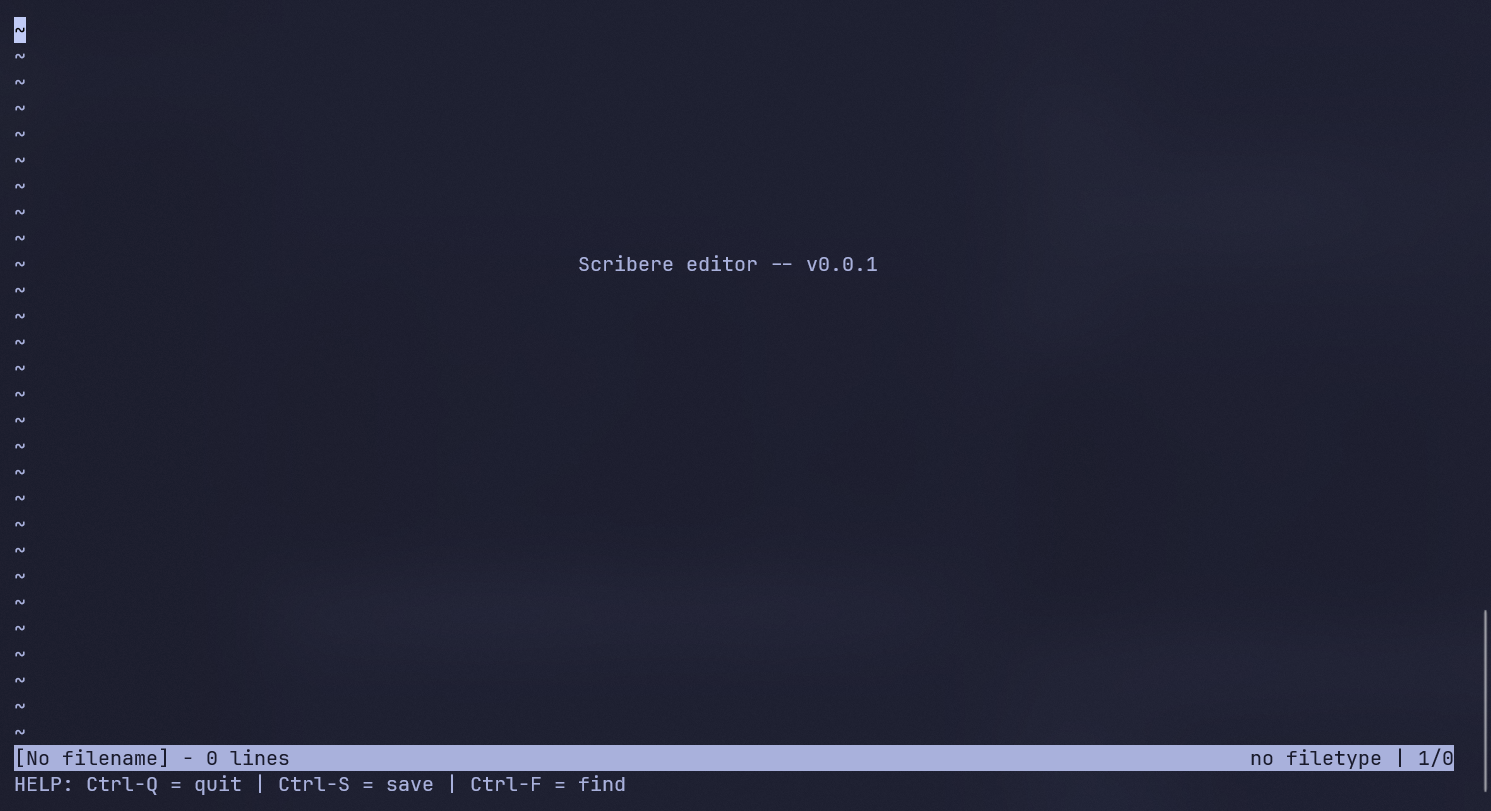
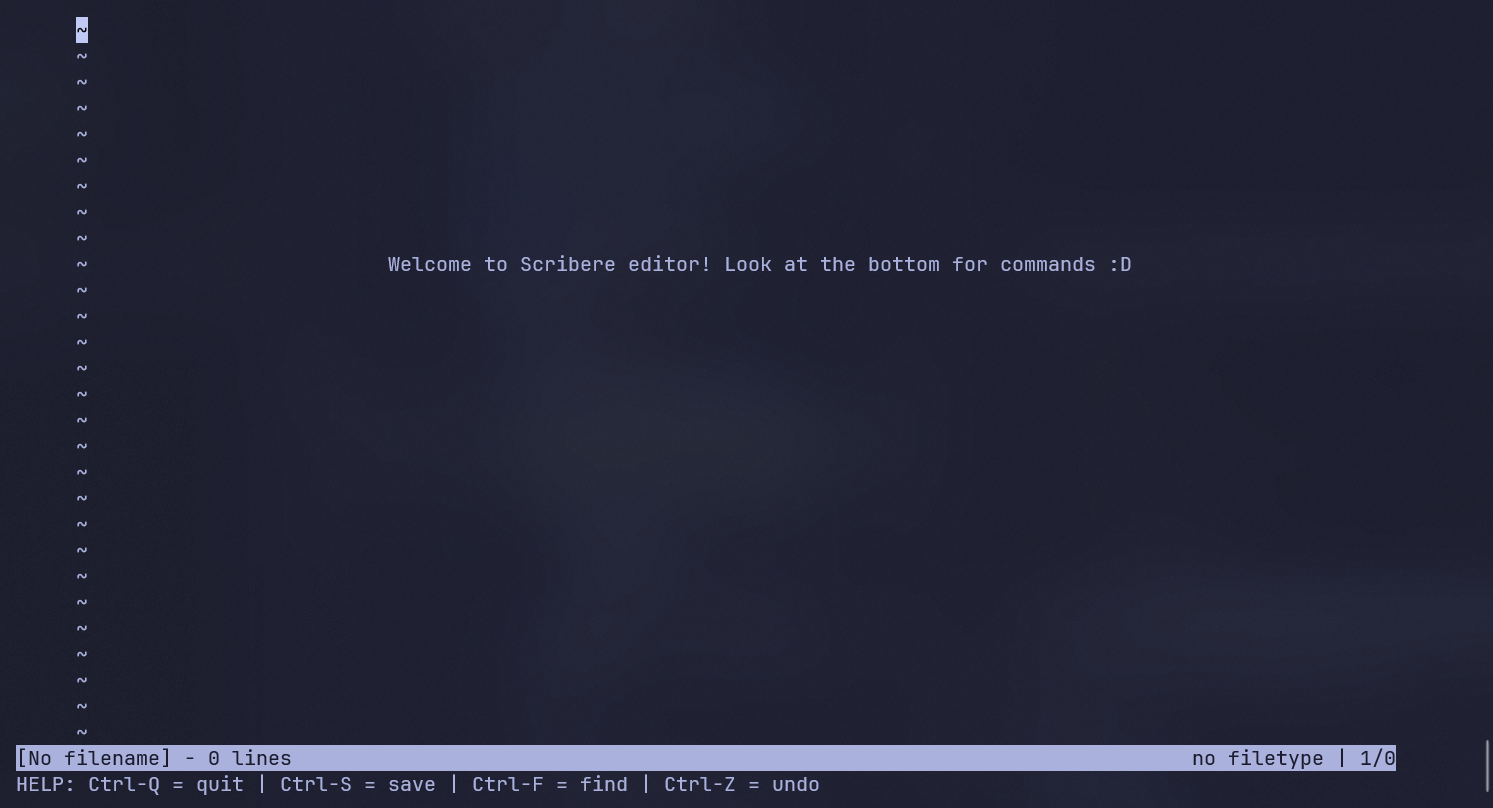
Display message on statusbar and Update README.md
added the help as a permanent message so its always displayed and updated the screenshots in readme

Changed region(s): [[0.0, 0.7426, 1.0, 0.9901], [0.2468, 0.3094, 0.7713, 0.3403], [0.0, 0.0309, 0.0617, 0.0619]]

diff --git a/scribere.c b/scribere.c
@@ -99,6 +99,7 @@ struct editorConfig
     char *filename;
     char statusmsg[80];
     time_t statusmsg_time; // cooldown before status msg disappears
+    int msg_is_permanent;  // for a permanent message in status bar
     struct editorSyntax *syntax;
     struct termios orig_termios;
     UndoAction undo_stack[UNDO_STACK_SIZE];
@@ -253,7 +254,7 @@ struct editorSyntax HLDB[] = {
 
     {"json",
      JSON_HL_extensions, JSON_HL_keywords,
-     NULL, NULL, NULL, /* JSON has no comments */
+     NULL, NULL, NULL,
      HL_HIGHLIGHT_NUMBERS | HL_HIGHLIGHT_STRINGS},
 
     {"makefile",
@@ -1065,7 +1066,7 @@ void editorDrawRows(struct abuf *ab)
             if (E.numrows == 0 && y == E.screenrows / 3)
             {
                 char welcome[80];
-                int welcomelen = snprintf(welcome, sizeof(welcome), "Scribere editor -- v%s", SCRIBERE_VERSION); // welcome text
+                int welcomelen = snprintf(welcome, sizeof(welcome), "Welcome to Scribere editor! Look at the bottom for commands :D"); // welcome text
                 if (welcomelen > E.screencols)
                     welcomelen = E.screencols;                 // shrink welcome text if screen size is not big enough
                 int padding = (E.screencols - welcomelen) / 2; // this is how to get the centre value to centre text
@@ -1170,11 +1171,30 @@ void editorDrawStatusBar(struct abuf *ab)
 void editorDrawMessageBar(struct abuf *ab)
 {
     abAppend(ab, "\x1b[K", 3); // clears message bar
-    int msglen = strlen(E.statusmsg);
+    if (E.msg_is_permanent)    // permanent message
+    {
+        int msglen = strlen(E.statusmsg);
+        if (msglen > E.screencols)
+            msglen = E.screencols;
+        abAppend(ab, E.statusmsg, msglen);
+        return;
+    }
+
+    int msglen = strlen(E.statusmsg); // temporary message (5 seconds)
     if (msglen > E.screencols)
         msglen = E.screencols;
     if (msglen && time(NULL) - E.statusmsg_time < 5)
+    {
         abAppend(ab, E.statusmsg, msglen);
+    }
+    else
+    {
+        const char *hint = "HELP: Ctrl-Q = quit | Ctrl-S = save | Ctrl-F = find | Ctrl-Z = undo";
+        int hintlen = strlen(hint);
+        if (hintlen > E.screencols)
+            hintlen = E.screencols;
+        abAppend(ab, hint, hintlen);
+    }
 }
 void editorRefreshScreen() // clearing the screen (2 represents clearing the whole screen in below line)
 {
@@ -1194,11 +1214,21 @@ void editorRefreshScreen() // clearing the screen (2 represents clearing the who
 }
 void editorSetStatusMessage(const char *fmt, ...)
 {
+    E.msg_is_permanent = 0;
     va_list ap;
     va_start(ap, fmt);
     vsnprintf(E.statusmsg, sizeof(E.statusmsg), fmt, ap);
     va_end(ap);
     E.statusmsg_time = time(NULL);
+}
+void editorSetPermanentMessage(const char *fmt, ...)
+{
+    va_list ap;
+    va_start(ap, fmt);
+    vsnprintf(E.statusmsg, sizeof(E.statusmsg), fmt, ap);
+    va_end(ap);
+    E.statusmsg_time = time(NULL);
+    E.msg_is_permanent = 1;
 }
 // input
 
@@ -1390,6 +1420,7 @@ void initEditor()
     E.filename = NULL; // so that its empty when no file is open
     E.statusmsg[0] = '\0';
     E.statusmsg_time = 0;
+    E.msg_is_permanent = 0;
     if (getWindowSize(&E.screenrows, &E.screencols) == -1) // error handling
         die("getWindowSize");
     E.screenrows -= 2;                      // no of lines to leave for displaying status bar
@@ -1405,7 +1436,7 @@ int main(int argc, char *argv[])
     {
         editorOpen(argv[1]);
     }
-    editorSetStatusMessage("HELP: Ctrl-Q = quit | Ctrl-S = save | Ctrl-F = find | Ctrl-Z = undo");
+    editorSetPermanentMessage("HELP: Ctrl-Q = quit | Ctrl-S = save | Ctrl-F = find | Ctrl-Z = undo");
     while (1)
     {
         editorRefreshScreen();

diff --git a/README.md b/README.md
@@ -9,9 +9,11 @@
 
 It is a text editor i made using the kilo guide and i am currently adding my own features to it.
 
-It is made using c so it is very lightweight (currently ~35kb)
+It is made using c so it is very lightweight (currently ~41kb)
 
 The syntax highlighting currently only supports c language, more soon.
+
+Fun fact: Scribere means *"to write"* in latin
 
 
 ## Features
@@ -37,6 +39,7 @@ The syntax highlighting currently only supports c language, more soon.
 
 ![screenshot-1](./media/screenshot-1.png)
 ![screenshot-2](./media/screenshot-2.png)
+![screenshot-2](./media/screenshot-3.png)
 \*The terminal might look different from screenshots because i modified the look of my powershell terminal.\*
 
 ## References
